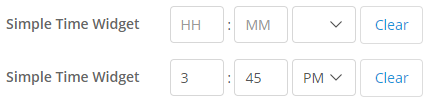
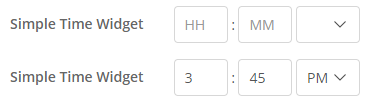
overhauled clear system

diff --git a/src/components/TimeInput.tsx b/src/components/TimeInput.tsx
@@ -15,14 +15,13 @@ export interface InputProps {
     required?: boolean;
     hasError?: boolean;
     invalidMessage?: string;
-    showClear?: boolean;
-    clearText?: string;
     renderNumber?: boolean;
 }
 interface InputState {
     hourValue?: string;
     minuteValue?: string;
     ampmValue?: string;
+    lastKnownDate: string;
     validationString?: string;
     wrapperClassName: string;
 }
@@ -32,7 +31,6 @@ export class TimeInput extends Component<InputProps> {
     private readonly handleMinuteChange = this.onMinuteChange.bind(this);
     private readonly handleBlur = this.onBlur.bind(this);
     private readonly handleDropdownChange = this.onDropdownChange.bind(this);
-    private readonly handleClearButton = this.clearValue.bind(this);
     private readonly defaultWrapperClass = classNames("time-input",this.props.className);
     private readonly inputLength = 2;
     readonly state: InputState = { 
@@ -40,26 +38,31 @@ export class TimeInput extends Component<InputProps> {
         minuteValue: undefined, 
         ampmValue: undefined,
         validationString: undefined,
+        lastKnownDate: "1970-01-01",
         wrapperClassName: classNames(this.defaultWrapperClass)
     };
     componentDidUpdate(prevProps: InputProps) {
         if (this.props.value !== prevProps.value) {
             if(this.props.value != undefined){
                 const momentValue = Moment(this.props.value);
-                const hourValue = momentValue.format("h");
-                const minuteValue = momentValue.format("mm");
-                const ampmValue = momentValue.format("A");
                 this.setState({ 
-                    hourValue: hourValue, 
-                    minuteValue: minuteValue, 
-                    ampmValue: ampmValue 
+                    hourValue: momentValue.format("h"), 
+                    minuteValue: momentValue.format("mm"), 
+                    ampmValue: momentValue.format("A"),
+                    lastKnownDate: momentValue.format("YYYY-MM-DD")
                 });
             }
             else{
+                // attempt to fetch date from prior value
+                var lastDate = "1970-01-01";
+                if(prevProps.value != undefined){
+                    lastDate = Moment(prevProps.value).format("YYYY-MM-DD");
+                }
                 this.setState({ 
                     hourValue: undefined, 
                     minuteValue: undefined, 
-                    ampmValue: undefined 
+                    ampmValue: undefined,
+                    lastKnownDate: lastDate
                 });
             }
             this.setState({ 
@@ -109,8 +112,6 @@ export class TimeInput extends Component<InputProps> {
                         <option value="AM">AM</option>
                         <option value="PM">PM</option>
                     </select>
-                    <span> </span>
-                    {this.renderClearButton()}
                    <Alert>{this.state.validationString}</Alert>
                 </div>; 
     }
@@ -136,31 +137,6 @@ export class TimeInput extends Component<InputProps> {
                     disabled={this.props.disabled}
                     value={isHours ? this.getCurrentHourValue() : this.getCurrentMinuteValue()}
                     placeholder={isHours ? "HH" : "MM"} />;
-    }
-    private renderClearButton(): ReactNode | undefined {
-        if(this.props.showClear){
-            return <button type="button"
-                           className="btn time-button"
-                           onClick={this.handleClearButton}
-                           disabled={this.props.disabled}>
-                    {this.props.clearText}</button>;
-        }
-        return undefined;
-    }
-    private clearValue() {
-        if(this.props.disabled) {
-            return;
-        }
-        this.setState({ 
-            hourValue: undefined, 
-            minuteValue: undefined, 
-            ampmValue: undefined, 
-            validationString: undefined,
-            wrapperClassName: classNames(this.defaultWrapperClass)
-        });
-        if (this.props.onUpdate) {
-            this.props.onUpdate(undefined);
-        }
     }
 
     private onHourChange(event: ChangeEvent<HTMLInputElement>) {
@@ -208,15 +184,35 @@ export class TimeInput extends Component<InputProps> {
         }
         const newTime = this.makeTime();
         // if new time is undefined, the time was invalid
+        console.log(this.state);
         if(newTime) { 
             // if value is undefined but new time is not, the value used to be empty but is now set
+            console.log('if');
             if(!this.props.value || this.props.value.getTime() !== newTime.getTime()) {
                 if (this.props.onUpdate) {
                     this.props.onUpdate(newTime);
                 }
             }
+            this.setState({ 
+                validationString: undefined,
+                wrapperClassName: classNames(this.defaultWrapperClass)
+            });
+        }
+        // unless all 3 inputs are empty, then set empty
+        else if((this.state.hourValue=="" || this.state.hourValue==undefined)
+                && (this.state.minuteValue=="" || this.state.minuteValue==undefined) 
+                && (this.state.ampmValue=="" || this.state.ampmValue==undefined)) {
+            console.log('else if');
+            if (this.props.onUpdate) {
+                this.props.onUpdate(undefined);
+            }
+            this.setState({ 
+                validationString: undefined,
+                wrapperClassName: classNames(this.defaultWrapperClass)
+            });
         }
         else {
+            console.log('else');
             this.setState({ 
                 validationString: this.props.invalidMessage,
                 wrapperClassName: classNames("has-error", this.defaultWrapperClass)
@@ -230,8 +226,8 @@ export class TimeInput extends Component<InputProps> {
             var newTime = Moment(this.props.value);
         }
         else {
-            // if the date portion is not set, set to epoch - Mendix's default time input also sets epoch in this case
-            var newTime = Moment("1970-01-01");
+            // if the date portion is not set, try to set last date or epoch
+            var newTime = Moment(this.state.lastKnownDate);
         }
         if(this.state.hourValue && this.state.minuteValue && this.state.ampmValue) {
             var hoursInt = parseInt(this.state.hourValue);

diff --git a/typings/SimpleTimeWidgetProps.d.ts b/typings/SimpleTimeWidgetProps.d.ts
@@ -18,22 +18,18 @@ export type EditableEnum = "default" | "never";
 
 export type ReadStyleEnum = "control" | "text";
 
+export type InputStyleEnum = "text" | "number";
+
 export type RequiredEnum = "yes" | "no";
-
-export type ShowClearEnum = "yes" | "no";
-
-export type RenderNumberEnum = "yes" | "no";
 
 export interface SimpleTimeWidgetContainerProps extends CommonProps {
     timeAttribute: EditableValue<Date>;
     editable: EditableEnum;
     readStyle: ReadStyleEnum;
+    inputStyle: InputStyleEnum;
     invalidMessage: DynamicValue<string>;
     required: RequiredEnum;
     requiredMessage?: DynamicValue<string>;
-    showClear: ShowClearEnum;
-    clearText?: DynamicValue<string>;
-    renderNumber: RenderNumberEnum;
     onChangeAction?: ActionValue;
 }
 
@@ -41,12 +37,10 @@ export interface SimpleTimeWidgetPreviewProps extends CommonProps {
     timeAttribute: string;
     editable: EditableEnum;
     readStyle: ReadStyleEnum;
+    inputStyle: InputStyleEnum;
     invalidMessage: string;
     required: RequiredEnum;
     requiredMessage?: string;
-    showClear: ShowClearEnum;
-    clearText?: string;
-    renderNumber: RenderNumberEnum;
     onChangeAction?: pages.ClientAction;
 }
 
@@ -54,11 +48,9 @@ export interface VisibilityMap {
     timeAttribute: boolean;
     editable: boolean;
     readStyle: boolean;
+    inputStyle: boolean;
     invalidMessage: boolean;
     required: boolean;
     requiredMessage: boolean;
-    showClear: boolean;
-    clearText: boolean;
-    renderNumber: boolean;
     onChangeAction: boolean;
 }

diff --git a/src/SimpleTimeWidget.tsx b/src/SimpleTimeWidget.tsx
@@ -28,8 +28,6 @@ class SimpleTimeWidget extends Component<SimpleTimeWidgetContainerProps> {
                         required={required}
                         hasError={!!validationFeedback}
                         invalidMessage={this.invalidMessage()}
-                        showClear={this.showClear()}
-                        clearText={this.clearText()}
                         renderNumber={this.renderNumber()}
                     />
                     <Alert id={this.props.id + "-error"}>{validationFeedback}</Alert>
@@ -52,14 +50,8 @@ class SimpleTimeWidget extends Component<SimpleTimeWidgetContainerProps> {
     private invalidMessage(): string | undefined {
         return this.props.invalidMessage ? this.props.invalidMessage.value : "Invalid time";
     }
-    private showClear(): boolean {
-        return this.props.showClear === "yes";
-    }
-    private clearText(): string | undefined {
-        return this.props.clearText ? this.props.clearText.value : "Clear";
-    }
     private renderNumber(): boolean {
-        return this.props.renderNumber === "yes";
+        return this.props.inputStyle === "number";
     }
     private validator(value: Date | undefined): string | undefined {
         const { required, requiredMessage } = this.props;

diff --git a/README.md b/README.md
@@ -28,16 +28,15 @@ Property descriptions:
   * When yes, causes Mendix validation to fail when the date attribute is empty.  
 * Required message
   * The error message to show when the required validation fails.  
-* Show clear button
-  * Adds a button that will clear the inputs and set the attribute to empty.
-    Warning: this will clear the date portion of the date/time attribute as well.  
-* Clear button text
-  * Show a custom value on the clear button.  
 * Use number inputs
   * Converts the type of the hours/minutes input boxes from text to number.
     On mobile devices, this will bring up the number instead of letter keyboard.  
 * OnChange action
   * Enables Mendix on change behavior. Will trigger when a new, valid value is input.  
+Notes on empty value:  
+When all 3 inputs are cleared, the whole date/time attribute will be set to empty. 
+If a new time is set before the object is committed, the last known date will be used. 
+This is different from the time-only Mendix input, which permanently clears the date.  
 
 ## Demo project
 [TBA]
